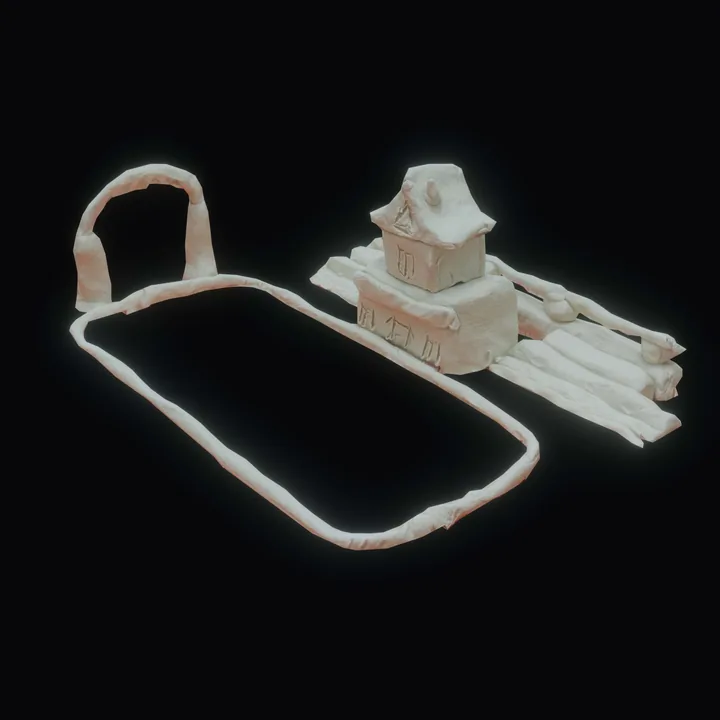
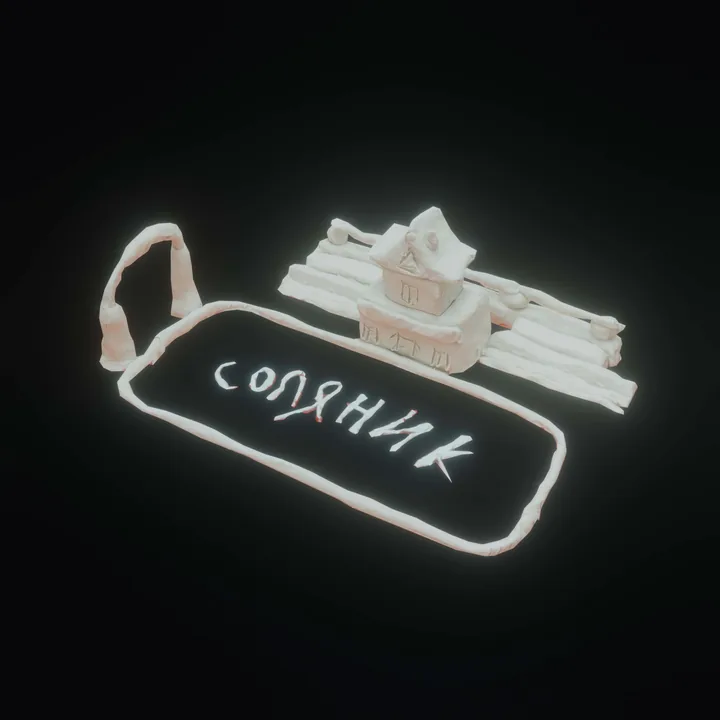
Update carousel objects 13 and 14 and add a 21st
The new 14 and 21 renders fill most of their frame, so they are re-fitted
to about 70% of it (like the rest) before export.

Changed region(s): [[0.0917, 0.2139, 0.9472, 0.7944]]

diff --git a/site/index.html b/site/index.html
@@ -192,16 +192,17 @@
       <div class="orbit-item"><img src="img/models/10.webp" alt="Об'єкт пам'яті 10" loading="lazy" decoding="async" draggable="false" /></div>
       <div class="orbit-item"><img src="img/models/11.webp" alt="Об'єкт пам'яті 11" loading="lazy" decoding="async" draggable="false" /></div>
       <div class="orbit-item"><img src="img/models/12.webp" alt="Об'єкт пам'яті 12" loading="lazy" decoding="async" draggable="false" /></div>
-      <div class="orbit-item"><img src="img/models/13.webp" alt="Об'єкт пам'яті 13" loading="lazy" decoding="async" draggable="false" /></div>
-      <div class="orbit-item"><img src="img/models/14.webp" alt="Об'єкт пам'яті 14" loading="lazy" decoding="async" draggable="false" /></div>
+      <div class="orbit-item"><img src="img/models/13.webp?v=2" alt="Об'єкт пам'яті 13" loading="lazy" decoding="async" draggable="false" /></div>
+      <div class="orbit-item"><img src="img/models/14.webp?v=2" alt="Об'єкт пам'яті 14" loading="lazy" decoding="async" draggable="false" /></div>
       <div class="orbit-item"><img src="img/models/15.webp" alt="Об'єкт пам'яті 15" loading="lazy" decoding="async" draggable="false" /></div>
       <div class="orbit-item"><img src="img/models/16.webp" alt="Об'єкт пам'яті 16" loading="lazy" decoding="async" draggable="false" /></div>
       <div class="orbit-item"><img src="img/models/17.webp" alt="Об'єкт пам'яті 17" loading="lazy" decoding="async" draggable="false" /></div>
       <div class="orbit-item"><img src="img/models/18.webp" alt="Об'єкт пам'яті 18" loading="lazy" decoding="async" draggable="false" /></div>
       <div class="orbit-item"><img src="img/models/19.webp" alt="Об'єкт пам'яті 19" loading="lazy" decoding="async" draggable="false" /></div>
       <div class="orbit-item"><img src="img/models/20.webp" alt="Об'єкт пам'яті 20" loading="lazy" decoding="async" draggable="false" /></div>
+      <div class="orbit-item"><img src="img/models/21.webp" alt="Об'єкт пам'яті 21" loading="lazy" decoding="async" draggable="false" /></div>
     </div>
-    <div class="orbit-dots" role="group" aria-label="Об'єкти пам'яті: 20"></div>
+    <div class="orbit-dots" role="group" aria-label="Об'єкти пам'яті: 21"></div>
 
     <div class="container">
       <p class="gallery-note reveal">
